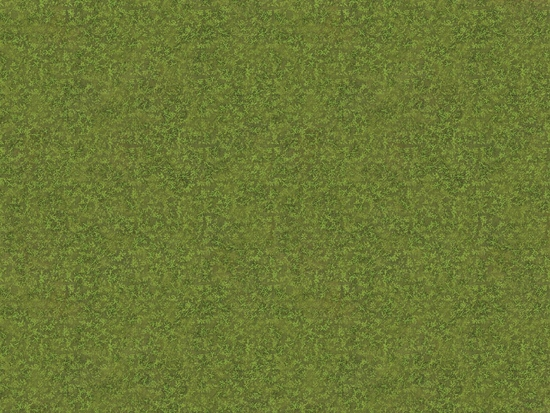
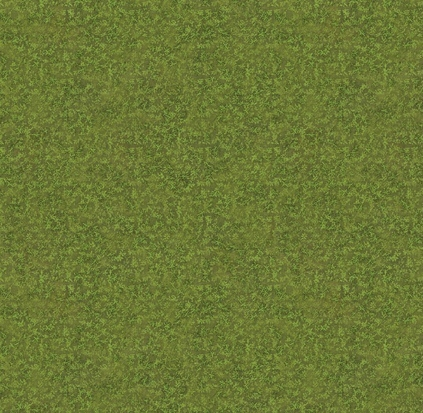
Added background to board

Changed region(s): [[0.0, 0.0, 1.0, 1.0]]

diff --git a/JogoCombate/src/graphics/BackgroundJPanel.java b/JogoCombate/src/graphics/BackgroundJPanel.java
@@ -1,0 +1,32 @@
+package graphics;
+
+import javax.swing.*;
+import java.awt.*;
+import java.awt.image.BufferedImage;
+import java.io.IOException;
+import javax.imageio.ImageIO;
+
+public class BackgroundJPanel extends JPanel {
+    private BufferedImage backgroundImage;
+
+    public BackgroundJPanel() {
+        try {
+            backgroundImage = ImageIO.read(getClass().getResource("/images/jogocombate.jpg"));
+        } catch (IOException e) {
+            e.printStackTrace();
+        }
+
+        this.setLayout(new GridLayout(5, 5));
+    }
+
+    @Override
+    protected void paintComponent(Graphics g) {
+        super.paintComponent(g);
+        int width = getWidth();
+        int height = getHeight();
+
+        // scaling the image to fit inside the panel
+        Image scaledImage = backgroundImage.getScaledInstance(width, height, Image.SCALE_SMOOTH);
+        g.drawImage(scaledImage, 0, 0, null);
+    }
+}

diff --git a/JogoCombate/src/graphics/Button.java b/JogoCombate/src/graphics/Button.java
@@ -17,9 +17,10 @@ public class Button {
         btn.setSize(50,50);
         associatedCell = cell;
         if( associatedCell.getIsObstacle() ) {
-            btn.setIcon(new ImageIcon(getClass().getResource("/images/Lake (1).png")));
+            btn.setIcon(new ImageIcon(getClass().getResource("/images/Lake.png")));
         }
-
+        btn.setOpaque(false);
+        btn.setContentAreaFilled(false);
     }
         //btn.setBackground(Color.LIGHT_GRAY);
 

diff --git a/JogoCombate/src/graphics/GraphicBoard.java b/JogoCombate/src/graphics/GraphicBoard.java
@@ -71,7 +71,7 @@ public class GraphicBoard extends JFrame {
         c.gridwidth = 2;
 
         // BUTTONS` GRID CONFIGURATION
-        JPanel pMid = new JPanel(new GridLayout(5, 5));
+        BackgroundJPanel pMid = new BackgroundJPanel();
         pMid.setVisible(true);
 
         for( int i = 0 ; i<5 ; i++ ) {

diff --git a/JogoCombate/src/App.java b/JogoCombate/src/App.java
@@ -9,5 +9,9 @@ public class App {
 
         gb.showWindow();
         gb.updateWindow();
+
+        gb.getBoard().moveOrAttack(gb.getBoard().getCell(3, 2), gb.getBoard().getCell(2, 2), true);
+
+        gb.updateWindow();
     }
 }
